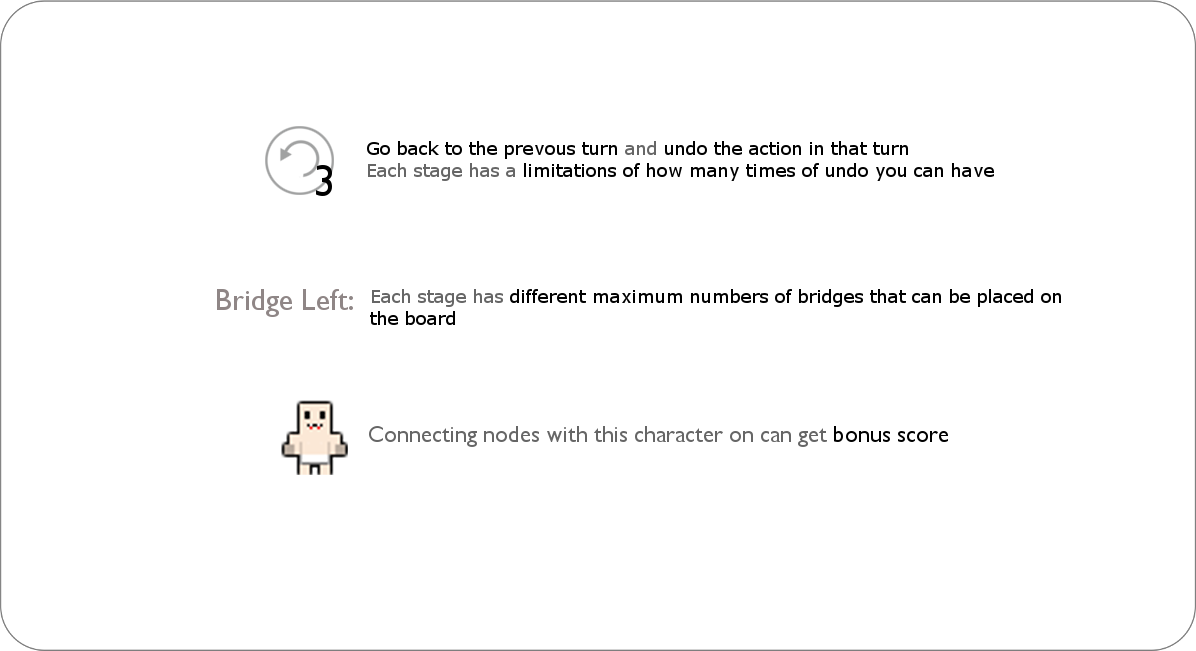
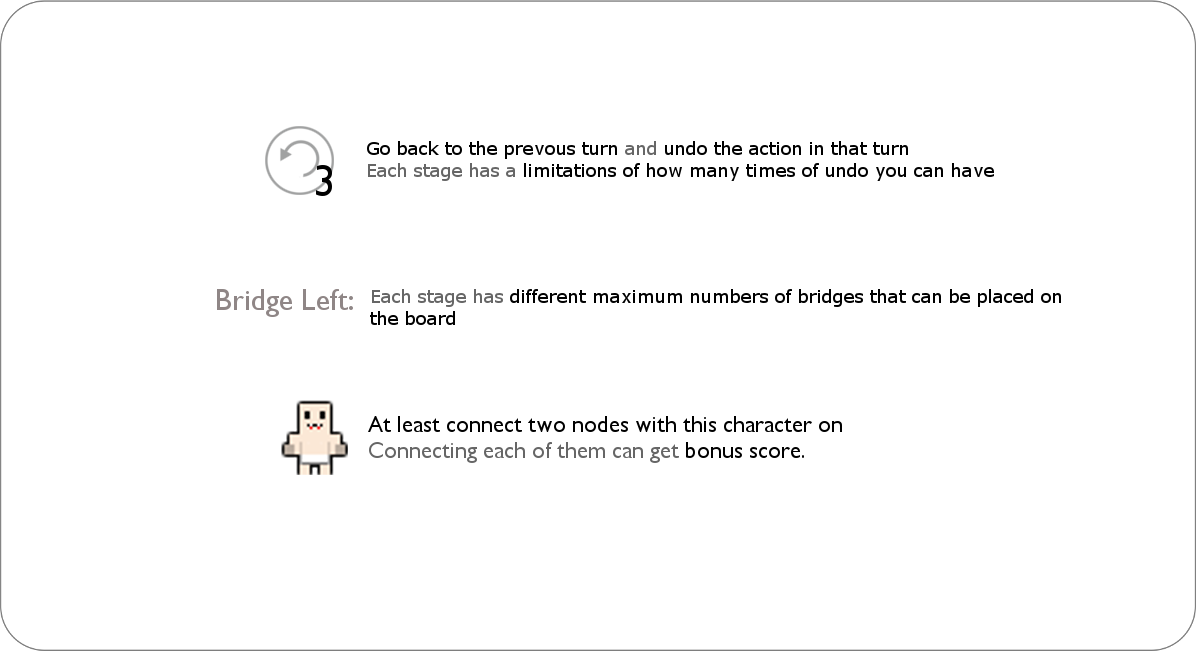
login with team id rather than group number

Changed region(s): [[0.3094, 0.6452, 0.8043, 0.7066]]

diff --git a/Assets/Script/CSchallenge/csLogin.cs b/Assets/Script/CSchallenge/csLogin.cs
@@ -11,18 +11,85 @@ public class csLogin : MonoBehaviour {
 	public Button loginBtn;
 
 	public int minID = 1;
-	public int maxID = 110;
+	public int maxID = 150;
 	public string debugID = "test";
+	//public string[] IDList = new string[150];
+	private string [][] IDList;
 
 	void Start () {
+		//IDList = {"TCCS2", "jasonccf", "lamfy", "slcss", "sccwyh", "laiyiulam", "FUHOYI", "andy328", "lmc2@lkcss.edu.hk", "MFS", "TCCS", "LST161", "klleung88", "karenpo", "pluvia","wchau2", "Yty_Swk", "SPCS2", "csklsc2", "rmajithia", "wchau", "leungto", "Jenny Kelly", "SPCS", "rguo_gsis", "ndictss", "SEM_ICT", "wcwong", "King Ling College", "chkwok","Scgaw2018", "CPCYDSS1", "hcyict", "stone2", "ylmasscomputer", "SJC1875", "tssun", "gilbert2cschallenge", "MOSSJSS", "wcwong1", "TCKo", "sunnylui2004", "CPCYDSS", "BWFLC", "myclhw", "stone", "lhw", "HTYC", "lto", "frcss", "klleung", "CSCisit", "potszyan", "plk83"};
+		loadIDList();
+		for (int i = 0; i < IDList.Length - 1; i++) {
+			int a = 0;
+			int.TryParse (GetDataByRowAndCol (i, 0).Substring (2), out a);
+			Debug.Log (a + ", " + GetDataByRowAndCol (i, 1) + ", " + GetDataByRowAndCol (i, 2));
+		}
+	}
+
+	private void loadIDList(){
+		TextAsset binAsset = Resources.Load ("IDlist", typeof(TextAsset)) as TextAsset;
+		string[] lineArray = binAsset.text.Split ("\r" [0]);
+		IDList = new string [lineArray.Length][];
+		for (int i = 0; i < lineArray.Length; i++)
+			IDList [i] = lineArray [i].Split (',');
+	}
+
+	private string GetDataByRowAndCol(int nRow, int nCol){
+		if (IDList.Length <= 0 || nRow >= IDList.Length)
+			return "";
+		if (nCol >= IDList [0].Length)
+			return "";
+
+		return IDList [nRow] [nCol];
+	}
+
+	private string GetDataByIdAndName(int nID, string strName){
+		if (IDList.Length <= 0)
+			return "";
+		int nRow = IDList.Length;
+		int nCol = IDList [0].Length;
+		for (int i = 1; i < nRow; ++i) {
+			string strID = string.Format ("\n{0}", nID);
+			if (IDList [i] [0] == strID) {
+				for (int j = 0; j < nCol; ++j) {
+					if (IDList [0] [j] == strName)
+						return IDList [i] [j];
+				}
+			}
+		}
+		return "";
 	}
 
 	public void Login() {
 		this.warningText.SetActive(false);
 
-		int iid;
-		string id = this.idText.text.ToLower();
+		//int iid;
+		string id = this.idText.text;
 
+		if (id != this.debugID) {
+			for (int i = 0; i < IDList.Length - 1; i++) {
+				string temp_id = GetDataByRowAndCol (i, 2);
+				if (temp_id.Equals (id)) {
+					int iid = 0;
+					int.TryParse(GetDataByRowAndCol (i, 0).Substring (2), out iid);
+					id = iid.ToString ();
+					if (id != PlayerPrefs.GetString ("username")) 
+						PlayerPrefs.DeleteAll ();
+					PlayerPrefs.SetString("username", id);
+					PlayerPrefs.Save();
+					SceneManager.LoadScene("scene_menu");
+					return;
+				}
+			}
+			this.warningText.SetActive (true);
+			return;
+		}
+
+		PlayerPrefs.SetString("username", id);
+		PlayerPrefs.Save();
+
+		SceneManager.LoadScene("scene_menu");
+		/*
 		if (id.ToLower () != this.debugID) {
 			if (!int.TryParse (id, out iid)) {
 				this.warningText.SetActive (true);
@@ -42,5 +109,6 @@ public class csLogin : MonoBehaviour {
 		PlayerPrefs.Save();
 
 		SceneManager.LoadScene("scene_menu");
+		*/
 	}
 }

diff --git a/Assets/Script/aiMode_init.cs b/Assets/Script/aiMode_init.cs
@@ -505,30 +505,30 @@ public class aiMode_init : MonoBehaviour {
 	
 		if (winner.Equals ("blue")) {
 			Debug.Log ("<color=white>Collected bonus node: "+ blueEdgeRespond.collectedBonusNode +"</color>");
-			if (level == 28) {
-				AudioSource.PlayClipAtPoint (winClaps, Camera.main.transform.position);
-				updateScore ("blue");
+			if (limitMoves && blueEdgeRespond.moveCount > maxMoves) {
+				AudioSource.PlayClipAtPoint (failSE, Camera.main.transform.position);
 				blueWinText.SetActive (false);
-				nextButton.SetActive (false);
+				TooManyMovesText.SetActive (true);
+				collectFailText.SetActive (false);
 				replayButton.SetActive (true);
-				finishText.SetActive (true);
-				scoreText.SetActive (true);
+				nextButton.SetActive (false);
+				scoreText.SetActive (false);
+			} else if(mustConnect && blueEdgeRespond.collectedBonusNode < 2){
+				AudioSource.PlayClipAtPoint (failSE, Camera.main.transform.position);
+				blueWinText.SetActive (false);
+				collectFailText.SetActive (true);
+				replayButton.SetActive (true);
+				nextButton.SetActive (false);
+				scoreText.SetActive (false);
 			} else {
-				if (limitMoves && blueEdgeRespond.moveCount > maxMoves) {
-					AudioSource.PlayClipAtPoint (failSE, Camera.main.transform.position);
+				if (level == 28) {
+					AudioSource.PlayClipAtPoint (winClaps, Camera.main.transform.position);
+					updateScore ("blue");
 					blueWinText.SetActive (false);
-					TooManyMovesText.SetActive (true);
-					collectFailText.SetActive (false);
-					replayButton.SetActive (true);
 					nextButton.SetActive (false);
-					scoreText.SetActive (false);
-				} else if(mustConnect && blueEdgeRespond.collectedBonusNode < 2){
-					AudioSource.PlayClipAtPoint (failSE, Camera.main.transform.position);
-					blueWinText.SetActive (false);
-					collectFailText.SetActive (true);
 					replayButton.SetActive (true);
-					nextButton.SetActive (false);
-					scoreText.SetActive (false);
+					finishText.SetActive (true);
+					scoreText.SetActive (true);
 				} else {
 					AudioSource.PlayClipAtPoint (winClaps, Camera.main.transform.position);
 					updateScore ("blue");
